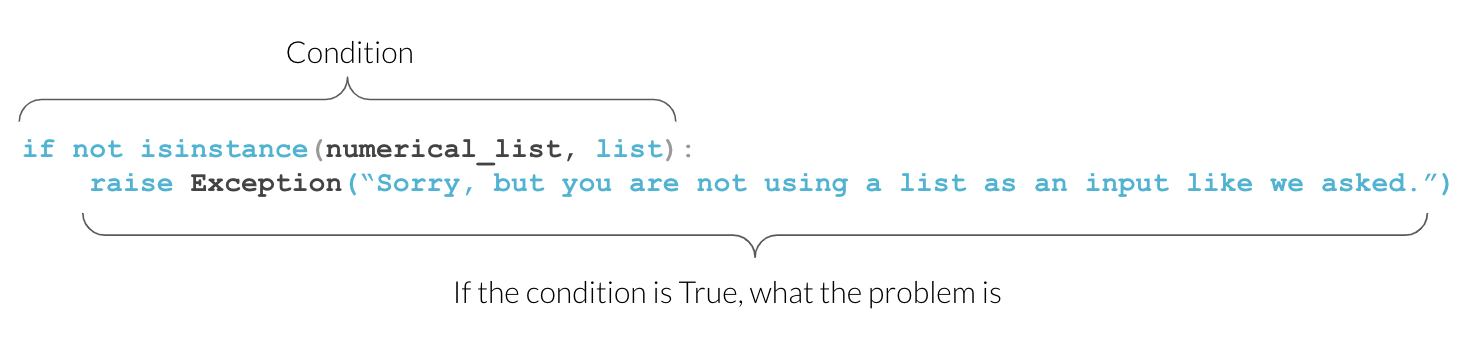
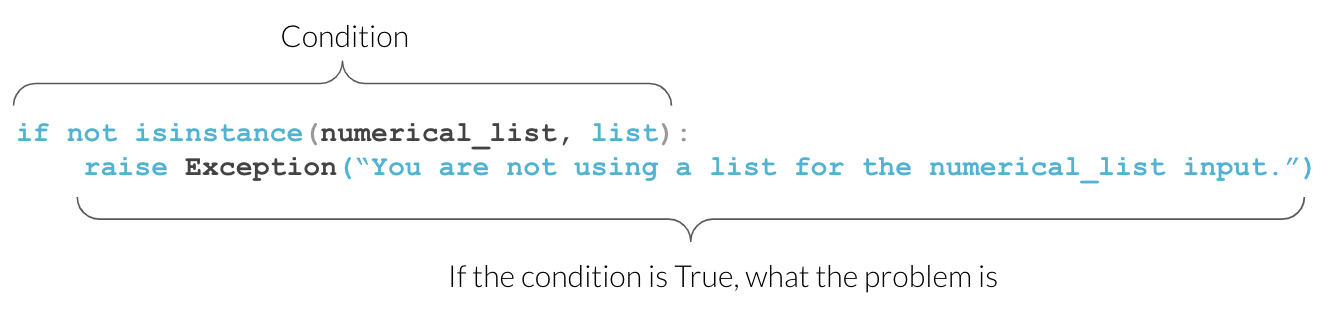
new assert message

diff --git a/chapters/en/slides/module6/module6_13.md b/chapters/en/slides/module6/module6_13.md
@@ -100,7 +100,7 @@ slide, we could do the following:
 def exponent_a_list(numerical_list, exponent=2):
 
     if not isinstance(numerical_list, list):
-        raise Exception("Sorry, but you are not using a list as an input like we asked.")
+        raise Exception("You are not using a list for the numerical_list input.")
 
     new_exponent_list = list()
     for number in numerical_list:
@@ -114,7 +114,7 @@ exponent_a_list(numerical_string)
 ```
 
 ``` out
-Exception: Sorry, but you are not using a list as an input like we asked.
+Exception: You are not using a list for the numerical_list input.
 
 Detailed traceback: 
   File "<string>", line 1, in <module>
@@ -154,7 +154,7 @@ Now we get an error message that is straight forward on why our code is
 failing:
 
 ``` out
-Exception: Sorry, but you are not using a list as an input like we asked.
+Exception: You are not using a list for the numerical_list input.
 ```
 
 We can agree that this message was much easier to decipher than the
@@ -179,7 +179,7 @@ Notes: Script here
 
 ``` python
 if not isinstance(numerical_list, list):
-        raise Exception("Sorry, but you are not using a list as an input like we asked.")
+        raise Exception("You are not using a list for the numerical_list input.")
 ```
 
 Here we used a function called `isinstance()` which checks if the first
@@ -330,7 +330,7 @@ value for numerical\_list was the correct type:
 
 ``` python
 if not isinstance(numerical_list, list):
-   raise Exception("Sorry, but you are not using a list for input like we asked.")
+   raise Exception("You are not using a list for the numerical_list input.")
 ```
 
 Since this is a type error, a better raised exception over `Exception`
@@ -341,7 +341,7 @@ Let’s make our correction here:
 def exponent_a_list(numerical_list, exponent=2):
 
     if not isinstance(numerical_list, list):
-        raise TypeError("Sorry, but you are not using a list for input like we asked.")
+        raise TypeError("You are not using a list for the numerical_list input.")
 
     new_exponent_list = list()
     for number in numerical_list:
@@ -355,7 +355,7 @@ exponent_a_list(numerical_string)
 ```
 
 ``` out
-TypeError: Sorry, but you are not using a list for input like we asked.
+TypeError: You are not using a list for the numerical_list input.
 
 Detailed traceback: 
   File "<string>", line 1, in <module>
